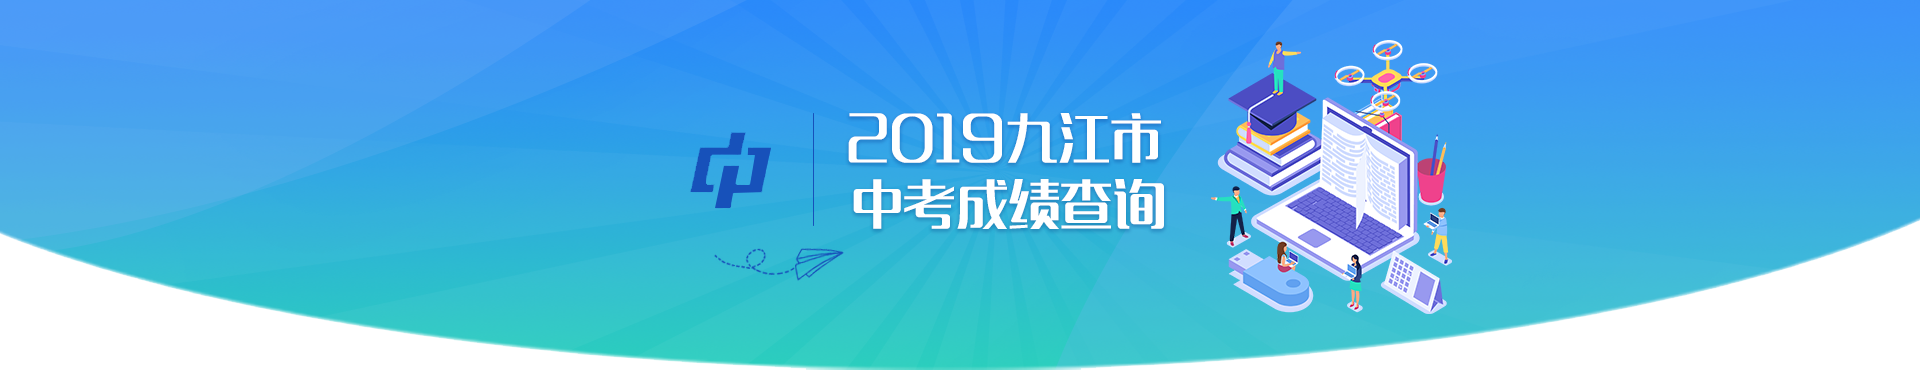
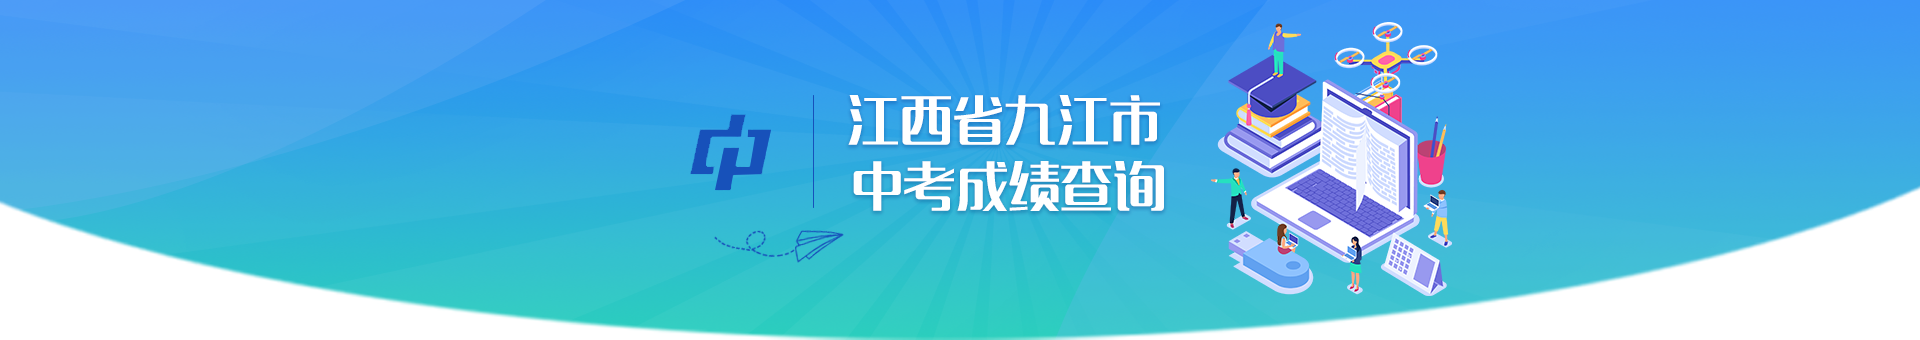
修改背景

diff --git a/css/scoreDetail.css b/css/scoreDetail.css
@@ -1,13 +1,15 @@
 .zk {
-    /* height: 100vh; */
+    position: relative;
+    min-height: 100vh;
     font-family: "Microsoft Yahei", "微软雅黑", Arial, "Helvetica", "Microsoft YaHei New", "STXihei", "华文细黑", "SimHei", "黑体", sans-serif;
     font-size: 16px;
     line-height: 1.5;
+    overflow: hidden;
 }
 
 .zk-bg {
     width: 100%;
-    height: 390px;
+    height: 340px;
     background: url(http://localhost/images/banner.png) no-repeat;
     background-position: 50% 0;
     /* overflow: hidden; */
@@ -15,14 +17,14 @@
 
 .zk-box {
     width: 788px;
-    margin: 1em auto;
+    margin: 10px auto;
     overflow: hidden;
 }
 
 .box-tit {
     margin: 0;
     text-align: center;
-    font-size: 22px;
+    font-size: 26px;
     color: #727272;
 }
 
@@ -79,4 +81,13 @@
     display: block;
     width: 100%;
     margin: 1em auto 0;
+}
+
+.zk-msg {
+    position: absolute;
+    bottom: 8px;
+    width: 100%;
+    text-align: center;
+    font-size: 15px;
+    color: #d0d0d0;
 }

diff --git a/Page/scoreDetail.html b/Page/scoreDetail.html
@@ -48,7 +48,9 @@
             </div>
             <button type="button" class="layui-btn layui-btn-fluid zk-btn">总分:660</button>
             <button class="layui-btn layui-btn-lg zk-return">返回</button>
+
         </div>
+        <p class="zk-msg">技术支持：九江市教育信息中心</p>
     </div>
     <script src="http://localhost/js/lib/jquery/jquery-3.3.1.min.js"></script>
 </body>
